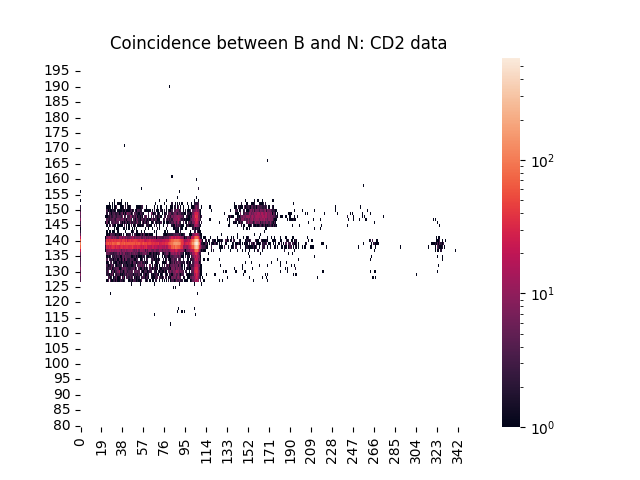
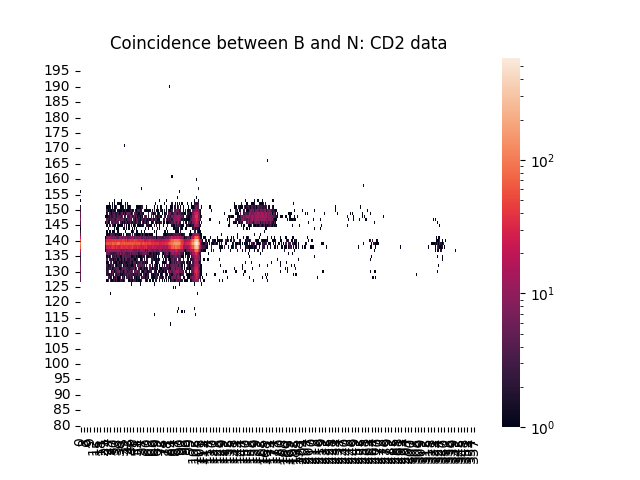
analysis v.1.0: He3 from B, bins from coinc.

Changed region(s): [[0.125, 0.875, 0.75, 0.9688]]

diff --git a/post-lab-analysis.py b/post-lab-analysis.py
@@ -104,6 +104,7 @@ carbonpeak = (1000, 1090)   # bin numbers for carbon peak in detector B
 tritiumpeak = (715, 801)    # bin numbers for tritium peak in signal B
 tritium_protonpeak = (503, 635) # bin numbers for proton (T)-peak in signal A
 neutronpeak = (574,615)
+he3peak = (520, 720)
 
 n_CD2_carbon = sum(data_B_CD2[carbonpeak[0]:carbonpeak[1]])
 n_C_carbon = sum(data_B_C[carbonpeak[0]:carbonpeak[1]])
@@ -142,6 +143,9 @@ print("\n")
 print("COUNTING:")
 n_tritium = sum(signal_B[tritiumpeak[0]:tritiumpeak[1]])
 print("#Tritium from detector B (T peak):", n_tritium)
+
+nHe3_sigB = sum(signal_B[he3peak[0]:he3peak[1]])
+print("He3 from detector B (bin range from coinc.):", nHe3_sigB)
 
 nTritiumReact_A = sum(signal_A[503:635])
 print("#Tritium from detector A (p peak):", nTritiumReact_A)
@@ -189,7 +193,11 @@ print("Neutrons calibrated to detector A:", nNeutrons_calibrated)
 print("\n")
 print("RESULTS:")
 print(f"#protons (T) / #neutrons (He3): {nTritiumReact_A/nNeutrons_calibrated:.3f}")
-print(f"#Tritium / #He3: {n_tritium/nHe3_byCoinc:.3f}")
+print(f"#Tritium (from B) / #He3 (from coincidence): {n_tritium/nHe3_byCoinc:.3f}")
+print(f"#Tritium (from B)/ #He3 (from B, bins from coincidence): {n_tritium/nHe3_sigB:.3f}")
+finalAnswer = n_tritium / nHe3_sigB
+print(f"*** Final answer: {finalAnswer:.3f} ***")
+print(f"I.e.: {n_tritium/(n_tritium + nHe3_sigB)*100:.1f}% T, {nHe3_sigB/(n_tritium + nHe3_sigB)*100:.1f}% He3")
 
 
 print('='*14, f' FINISHED ANALYSIS ', '='*14, '\n')
@@ -224,6 +232,7 @@ plt.xlim(2000,6000)
 plt.ylim(0,250)
 plt.savefig('./results/B_CD2.png', format='png')
 #plt.yscale('log')
+#plt.show()
 plt.close()
 
 # plot data_N_CD2 vs index (bin number)
@@ -240,12 +249,13 @@ plt.close()
 
 ## COINCIDENCE PLOT
 plt.figure(4)
-sns.heatmap(data_BN_coincidence_CD2, linewidth=0, norm=LogNorm(), yticklabels=5)
+sns.heatmap(data_BN_coincidence_CD2, linewidth=0, norm=LogNorm(), yticklabels=5, xticklabels=3)
 plt.gcf().gca().invert_yaxis()
 plt.ylim(80,200)
 plt.xlim(0,360)
 plt.title('Coincidence between B and N: CD2 data')
 plt.savefig('./results/BN_coincidence_CD2.png', format='png')
+#plt.show()
 plt.close()
 
 ## CARBON TARGET PLOTS
@@ -330,13 +340,20 @@ plt.close()
 
 # Plot signal B
 plt.figure(13)
-plt.plot([bin2energyB(i) for i in range(data_indices[1][1])], signal_B)
-plt.xlabel('Energy (keV)')
+show_energy = False
+if show_energy:
+    plt.plot([bin2energyB(i) for i in range(data_indices[1][1])], signal_B)
+    plt.xlabel('Energy (keV)')
+    plt.xlim(2100,6000)
+else:
+    plt.plot([(i) for i in range(data_indices[1][1])], signal_B)
+    plt.xlabel('Bin number')
+    plt.xlim(2100/4-200,6000/4+200)
 plt.ylabel('Counts')
 plt.title('Detector B: CD2 minus carbon calibrated C (= signal)')
-plt.xlim(2100,6000)
 plt.ylim(-125,250)
 plt.savefig('./results/signal_B.png', format='png')
+#plt.show()
 plt.close()
 
 # plot signal N
